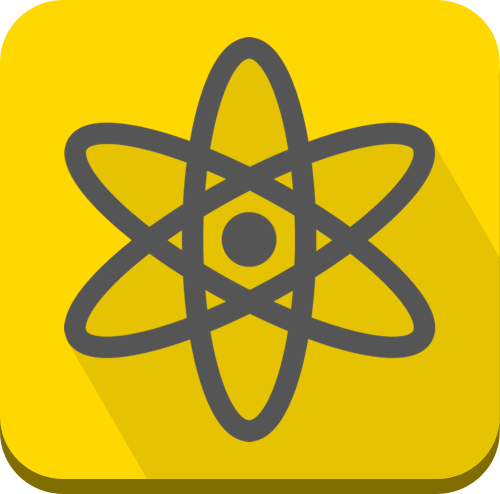
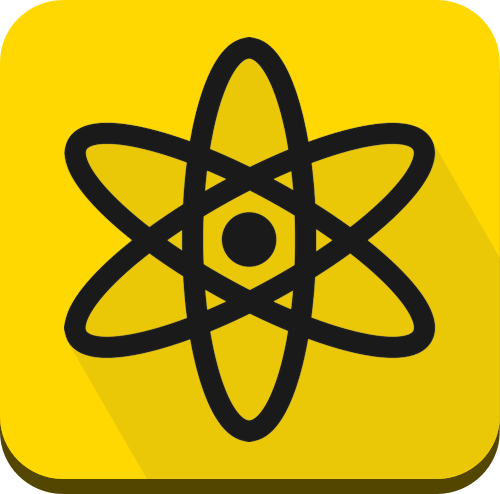
About Template improvements
Changed markup to use pagewidth to set page width, instead of using the
twocol div.

Used margin-bottom to make a 5 pixel space between paragraphs within
.pagewidth.

Darkened the atom logo's atom

Changed region(s): [[0.12, 0.0607, 0.87, 0.9109], [0.0, 0.8806, 0.99, 1.0], [0.99, 0.8502, 1.0, 0.9109]]

diff --git a/css/css2014.css b/css/css2014.css
@@ -37,6 +37,9 @@ a {
 	position:relative;
 }
 
+.pagewidth p {
+	margin-bottom:5px;
+}
 
 /**************************************
 		      PAGE LAYOUT

diff --git a/AboutTemplate.php b/AboutTemplate.php
@@ -18,27 +18,29 @@ $add_script = array();
 				<?php dynamic_sidebar('About Submenu') ?>
 		</div>
 		<div class="page_shadowline"></div>
-		<div id="twocolumns">
-			<?php 
-				$edit_attr = array(
-					'alt' => get_the_title(),
-					'title' => '',
-					'class' => 'floatright'
-					);
-				$post_image = get_the_post_thumbnail($post->ID,'pristine-custom-image-medium1', $edit_attr);					
-			?>
-			<?php
-				if(!empty($post_image)) {
-			 		echo $post_image;
-				}
-			?>
-			<?php the_content(); ?>
-			<?php endwhile; ?>
-				<!-- post navigation -->
-			<?php else: ?>
-				<!-- no posts found -->
-			<?php endif; ?>
-			<div class="spacer"></div>
+		<div class="pagewidth">
+			<div id="twocolumns">
+				<?php 
+					$edit_attr = array(
+						'alt' => get_the_title(),
+						'title' => '',
+						'class' => 'floatright'
+						);
+					$post_image = get_the_post_thumbnail($post->ID,'pristine-custom-image-medium1', $edit_attr);					
+				?>
+				<?php
+					if(!empty($post_image)) {
+				 		echo $post_image;
+					}
+				?>
+				<?php the_content(); ?>
+				<?php endwhile; ?>
+					<!-- post navigation -->
+				<?php else: ?>
+					<!-- no posts found -->
+				<?php endif; ?>
+				<div class="spacer"></div>
+			</div>
 		</div>
 	</div>
 <?php get_footer(); ?>
